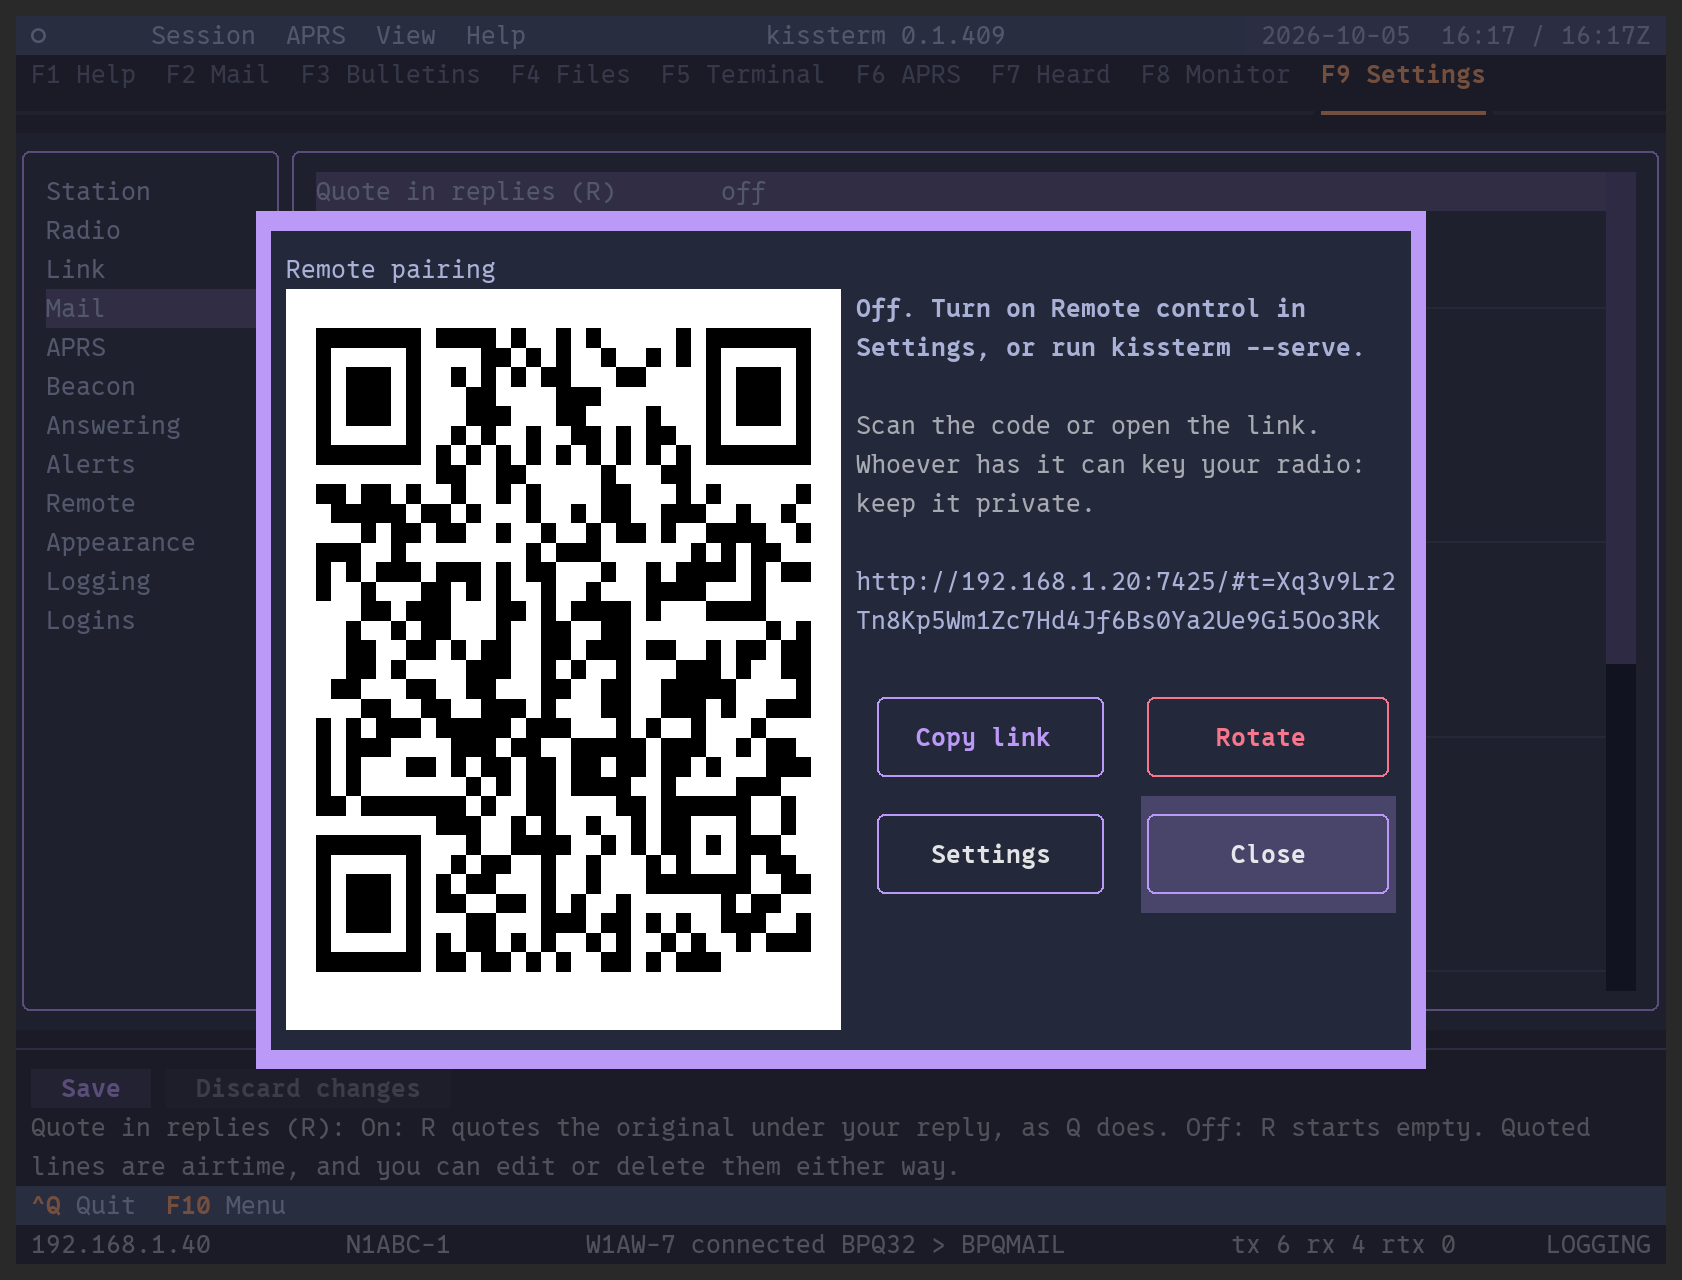
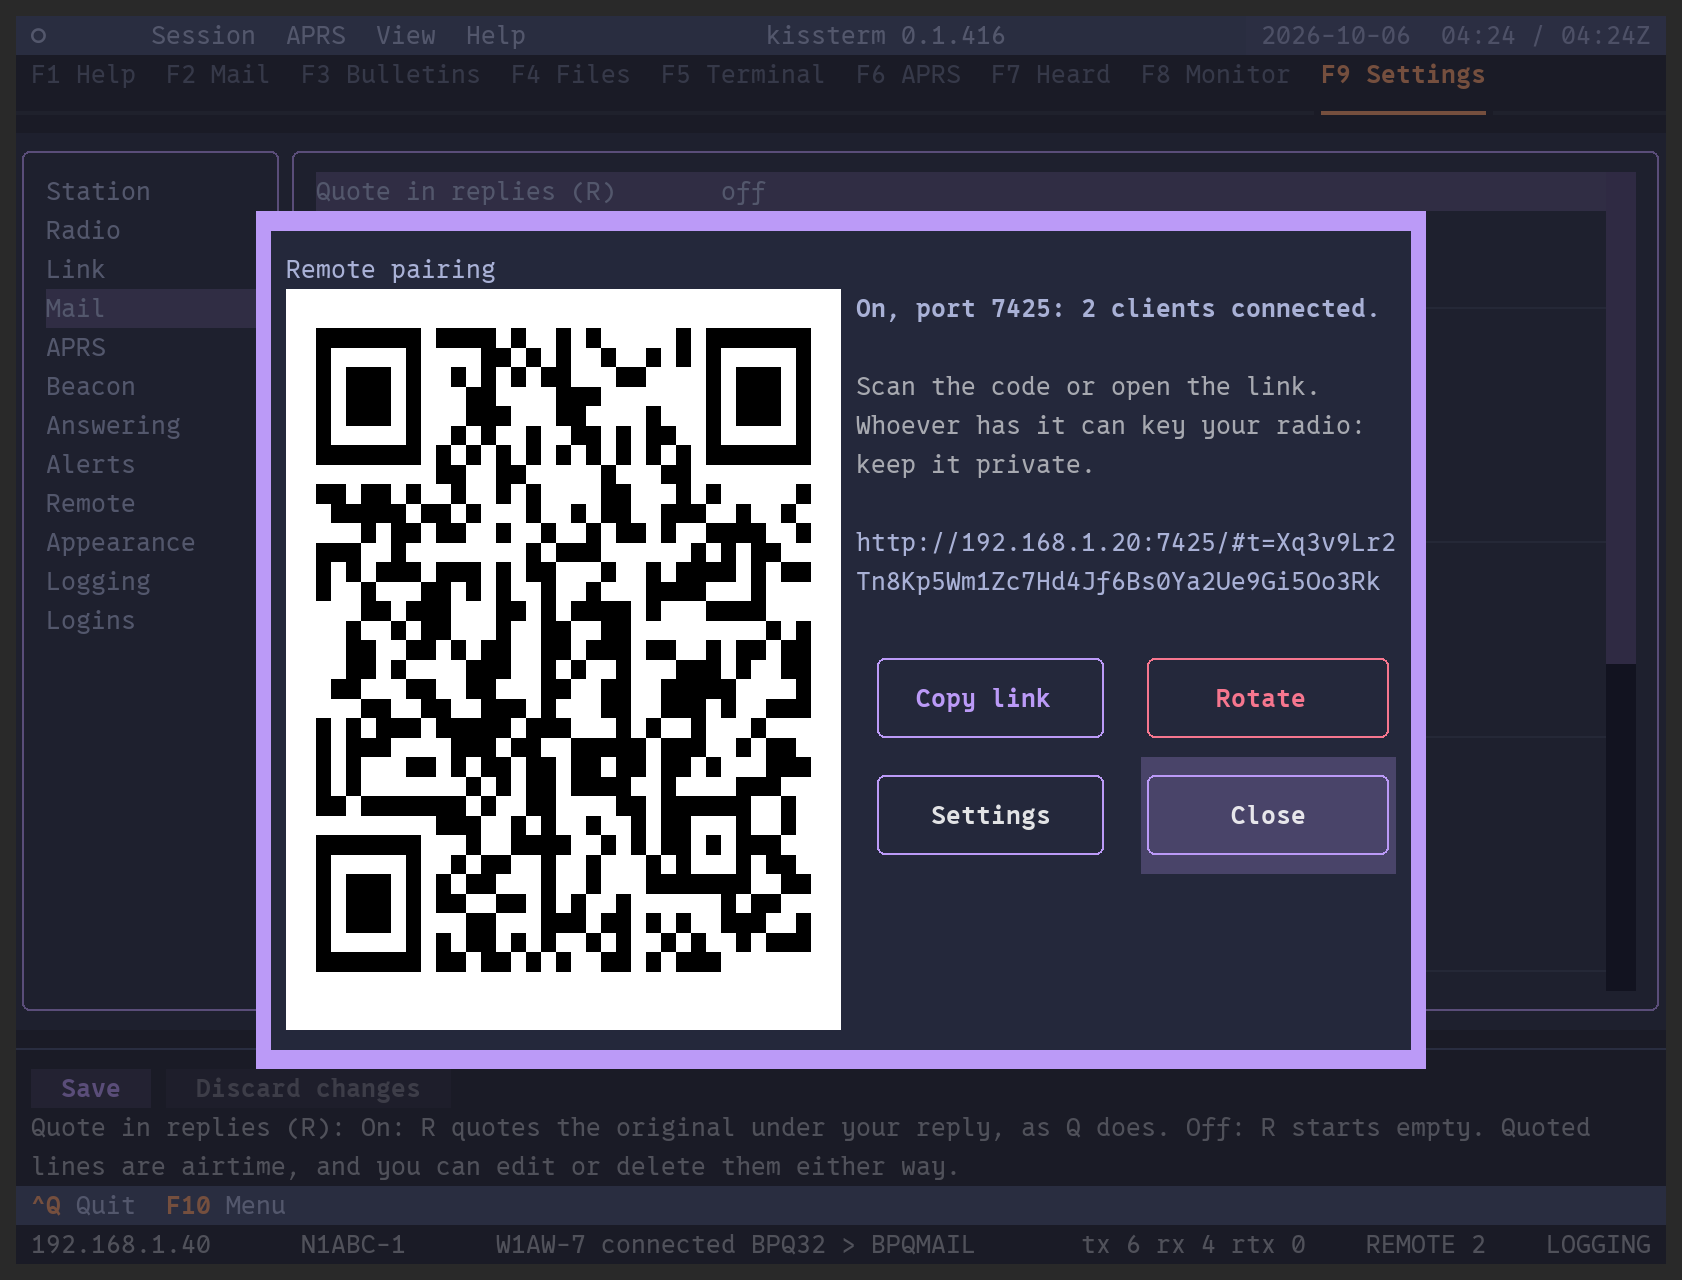
docs: remote control on the README's front page (station, laptop, phone); a late-joining client no longer re-raises replayed alerts
Claude-Session: https://claude.ai/code/session_01FCWtXQ183PSVjjcBWEy9f8

diff --git a/scripts/generate_phone_screenshots.py b/scripts/generate_phone_screenshots.py
@@ -6,7 +6,8 @@ data. No radio, no phone.
 remote control is a Flutter page, so it needs a real browser. This runs a
 loopback station with the remote server and the web client (the `web`
 extra), opens it in headless Chrome at a phone's size, taps through it,
-and writes one PNG of four phone screens to `assets/`.
+and writes the phone screens, two to an image, and the same station in a
+desktop-sized window to `assets/`.
 
 **The browser** is a browserless v2 server when `BROWSERLESS_WS` is set
 (`ws://HOST:3000?token=...`, the URL Playwright's `connect_over_cdp`
@@ -51,6 +52,7 @@ isolate()
 import asyncio  # noqa: E402
 import io  # noqa: E402
 import os  # noqa: E402
+import re  # noqa: E402
 import secrets  # noqa: E402
 import socket  # noqa: E402
 from urllib.parse import urlsplit  # noqa: E402
@@ -72,6 +74,8 @@ ASSETS = REPO / "assets"
 #: Flutter then takes text only from touch input, and these taps are
 #: mouse clicks; the layout follows the width alone.
 PHONE = {"width": 390, "height": 844, "deviceScaleFactor": 2, "mobile": False}
+#: A laptop's browser window: wide enough for the side rail.
+DESKTOP = {"width": 1000, "height": 560, "deviceScaleFactor": 2, "mobile": False}
 #: Space between the phones in the composite, and its background.
 GAP, BACKDROP = 48, (226, 226, 234)
 
@@ -180,8 +184,11 @@ class Phone:
     async def accessible(self) -> None:
         """Turn on Flutter's semantics, which puts named DOM elements over
         the canvas: what a screen reader would announce."""
-        await self.page.evaluate("document.querySelector('flt-semantics-placeholder')?.click()")
-        await self.page.get_by_role("tab", name="Stations").wait_for()
+        page = self.page
+        await page.wait_for_selector("flt-semantics-placeholder", state="attached", timeout=60000)
+        await page.evaluate("document.querySelector('flt-semantics-placeholder').click()")
+        # The transmit switch: in the top bar on every layout.
+        await page.get_by_role("button", name=re.compile("^Transmit is")).first.wait_for()
 
     def button(self, name: str):
         """The last button so named: a sheet's is drawn over the page's.
@@ -245,15 +252,34 @@ class Phone:
 
 
 async def shot(name: str, frames: list[Image.Image]) -> None:
-    """The phones side by side, half size, as `assets/<name>.png`."""
+    """The screens side by side on a backdrop, at the browser's full
+    resolution (a README column shows it at about one phone's width
+    each, sharp on a high-density display), as `assets/<name>.png`."""
     w, h = frames[0].size
     sheet = Image.new("RGB", (len(frames) * w + (len(frames) + 1) * GAP, h + 2 * GAP), BACKDROP)
     for i, frame in enumerate(frames):
         sheet.paste(frame, (GAP + i * (w + GAP), GAP))
-    sheet = sheet.resize((sheet.width // 2, sheet.height // 2), Image.LANCZOS)
     path = ASSETS / f"{name}.png"
     sheet.save(path, optimize=True)
     print(f"wrote {path.relative_to(REPO)}")
+
+
+async def open_page(browser, url: str, metrics: dict):
+    """A page at `metrics` (CSS size and density), loaded from `url`."""
+    # Both: the context's viewport, or Playwright's default replaces the
+    # CDP override below.
+    context = await browser.new_context(
+        viewport={"width": metrics["width"], "height": metrics["height"]},
+        device_scale_factor=metrics["deviceScaleFactor"])
+    page = await context.new_page()
+    cdp = await context.new_cdp_session(page)
+    await cdp.send("Emulation.setDeviceMetricsOverride", metrics)
+    # A remote browser's tab is not the focused window, and Flutter's text
+    # field takes keys only once its hidden input has focus.
+    await cdp.send("Emulation.setFocusEmulationEnabled", {"enabled": True})
+    await page.bring_to_front()
+    await page.goto(url)
+    return page
 
 
 async def drive(phone: Phone, core, tb) -> None:
@@ -314,24 +340,18 @@ async def main() -> int:
                 browser = await p.chromium.connect_over_cdp(endpoint)
             else:
                 browser = await p.chromium.launch()
-            # Both: the context's viewport, or Playwright's default replaces
-            # the CDP override below.
-            context = await browser.new_context(
-                viewport={"width": PHONE["width"], "height": PHONE["height"]},
-                device_scale_factor=PHONE["deviceScaleFactor"])
-            page = await context.new_page()
-            cdp = await context.new_cdp_session(page)
-            await cdp.send("Emulation.setDeviceMetricsOverride", PHONE)
-            # A remote browser's tab is not the focused window, and Flutter's
-            # text field takes keys only once its hidden input has focus.
-            await cdp.send("Emulation.setFocusEmulationEnabled", {"enabled": True})
-            await page.bring_to_front()
-            await page.goto(url)
-            await page.wait_for_timeout(8000)  # Flutter's first load
-            phone = Phone(page)
+            phone = Phone(await open_page(browser, url, PHONE))
             await drive(phone, core, tb)
+            # The same station in a desktop browser, joining late: the
+            # session and conversation arrive as the server's replay.
+            desktop = Phone(await open_page(browser, url, DESKTOP))
+            await desktop.accessible()
+            await desktop.shown("W1AW-7  connected")
+            await desktop.frame()
             await browser.close()
-        await shot("screenshot-phone", phone.frames)
+        await shot("screenshot-phone-connect", phone.frames[:2])
+        await shot("screenshot-phone", phone.frames[2:])
+        await shot("screenshot-desktop", desktop.frames)
     finally:
         await server.stop()
         core.aprs.shutdown()

diff --git a/kissterm/client/state.py b/kissterm/client/state.py
@@ -13,6 +13,11 @@ changed: "station", "gate", "transport", "activity", "session",
 is plain with colour spans, never escape codes. Nothing here parses
 anything from the air.
 
+**A replayed event is history** (PROTOCOL.md section 5): it draws the
+session text and threads a late joiner missed, but an alert or a setup
+request in it already happened, so it is not raised again. Without that,
+a browser opened an hour later popped up the hour's APRS alerts.
+
 **Only what the station said is shown**: a line the operator types is
 not added to its session until the station's `LineSent` comes back, so a
 line that was refused never looks sent.
@@ -27,6 +32,8 @@ from dataclasses import dataclass, field
 #: Text chunks kept per session (the station keeps the rest in its
 #: transcript).
 SESSION_CHUNKS = 4000
+#: Events that ask for attention now, which a replay does not repeat.
+ONE_SHOT = frozenset({"Alert", "SetupRequested"})
 MONITOR_LINES = 500
 NOTICES = 50
 
@@ -123,7 +130,10 @@ class StationState:
         if kind == "welcome":
             self._welcome(message)
         elif kind == "event":
-            self._event(message.get("name", ""), message.get("data") or {})
+            name = message.get("name", "")
+            if message.get("replay") and name in ONE_SHOT:
+                return
+            self._event(name, message.get("data") or {})
         elif kind == "notice":
             self.notices.append(message)
             self._tell("notice", message)

diff --git a/scripts/generate_screenshot.py b/scripts/generate_screenshot.py
@@ -387,16 +387,23 @@ async def main() -> int:
         await shot("screenshot-settings")
         # 9. Remote pairing, with an invented token and LAN address: the
         # real ones would change the image every run (and are the key to a
-        # transmitter).
+        # transmitter). Shown running, with a phone and a laptop connected
+        # (the README's front page): a stand-in server, never a real one.
+        from types import SimpleNamespace
+
         from kissterm.serve import pairing
         from kissterm.ui.dialogs import RemotePairingScreen
 
         pairing.lan_address = lambda: "192.168.1.20"
         app.remote.token = lambda: "Xq3v9Lr2Tn8Kp5Wm1Zc7Hd4Jf6Bs0Ya2Ue9Gi5Oo3Rk"
+        app.remote.server = SimpleNamespace(port=7425, clients=["phone", "laptop"])
+        app._refresh_status()
         app.push_screen(RemotePairingScreen(app.remote))
         await _pause(pilot, 0.3)
         await shot("screenshot-remote-pairing")
         app.pop_screen()
+        app.remote.server = None
+        app._refresh_status()
 
     station.close()
     node.close()

diff --git a/tests/unit/test_client.py b/tests/unit/test_client.py
@@ -113,6 +113,20 @@ async def test_a_question_is_answered_through_the_model():
     await server.stop()
 
 
+def test_a_replayed_alert_is_history_not_a_new_alert():
+    state = StationState()
+    heard: list = []
+    state.subscribe(lambda kind, data: heard.append(kind))
+    alert = {"type": "event", "seq": 5, "name": "Alert",
+             "data": {"title": "APRS", "body": "hi", "urgent": False, "topic": "aprs"}}
+    state.apply({**alert, "replay": True})
+    state.apply({"type": "event", "seq": 6, "name": "SetupRequested",
+                 "data": {"place": "mail"}, "replay": True})
+    assert "alert" not in heard and "setup" not in heard
+    state.apply(alert)
+    assert heard.count("alert") == 1, "a live alert still alerts"
+
+
 def test_timer_recovery_is_still_connected():
     state = StationState()
     state.apply({"type": "event", "seq": 1, "name": "SessionStateChanged",

diff --git a/kissterm/__init__.py b/kissterm/__init__.py
@@ -14,7 +14,7 @@ import __version__` fails with a confusing "unknown location" ImportError --
 this has already happened once.
 """
 
-__version__ = "0.1.416"
+__version__ = "0.1.417"
 
 __all__ = ["__version__"]
 

diff --git a/README.md b/README.md
@@ -17,12 +17,38 @@ the shack.
 - **Talks to your TNC directly**: a sound-card modem such as UZ7HO
   SoundModem or Direwolf, on this computer or another one on your network. USB, serial and Bluetooth TNCs are built
   in and on the roadmap to be proven with real hardware.
-- **More ways to use it are planned.** Today kissterm is a text interface.
-  A desktop app (Windows, macOS, Linux) and a web version for a tablet or a
-  shelter laptop are on the roadmap, built on the same core
-  ([ROADMAP](docs/ROADMAP.md), P7a).
+- **Run it from your phone or laptop too** (experimental). The station
+  keeps the radio; any phone, tablet or laptop on your network opens its
+  link in a browser and becomes a remote control. Nothing to install.
 
 ![The Mail tab: every inbox in one list, a message from the local BBS open](assets/screenshot-mail.png)
+
+## Remote control from a phone or laptop (experimental)
+
+Turn on remote control and the station serves its own app: open the link,
+or scan the QR code, in any browser on your network. The station and every
+screen share one station. The rules do not loosen at a distance. A connect
+from a phone still shows the radio reminder first, and the transmit switch
+is in the top corner of every screen, red while transmit is on. The link is
+the key to your transmitter, so keep it private; Rotate replaces it. Details
+are in the [user guide](docs/GUIDE.md#remote-control-experimental).
+
+**At the station:** Session > Remote pairing shows the link and its QR code,
+and `REMOTE` in the status bar says another screen can key the radio.
+
+![Remote pairing in the terminal: the QR code, the link, and two clients connected](assets/screenshot-remote-pairing.png)
+
+**In a browser on a laptop** the places run down the side:
+
+![The remote control in a laptop's browser: a node session, transmit on](assets/screenshot-desktop.png)
+
+**On a phone** they move to the bottom, in reach of a thumb. A session is
+the terminal, and APRS messages are conversations:
+
+![The remote control on a phone: a node session, and an APRS conversation](assets/screenshot-phone.png)
+
+It has been tried in browsers at laptop and phone sizes, not yet from a
+real phone on the air; [ON-AIR-TESTS](docs/ON-AIR-TESTS.md) lists the checks.
 
 ## A quick tour
 

diff --git a/docs/CHANGELOG.md b/docs/CHANGELOG.md
@@ -5,6 +5,25 @@ long, with a **Files:** line. Entries from before 2026-09-22 (the P0
 stabilization rewrite) are in `docs/CHANGELOG-archive.md`; read it only when
 you need the history of a specific change.
 
+## [2026-10-06] — Remote control on the README's front page
+
+### Improvements
+
+- **The README shows remote control**: the station's pairing dialog
+  (now drawn running, `REMOTE 2`), the app in a laptop's browser (the side
+  rail), and on a phone, each image large enough to read. The phone
+  screenshots are now pairs, not a strip of four, and the GUIDE adds the
+  laptop view.
+- **A browser that joins late no longer pops up old alerts.** The replay
+  that brings it the session text also carried past `Alert` and
+  `SetupRequested` events, which it raised as new; they are now history.
+
+**Files:** `README.md`, `docs/GUIDE.md`, `docs/PROTOCOL.md`,
+`kissterm/client/state.py`, `tests/unit/test_client.py`,
+`scripts/generate_phone_screenshots.py`, `scripts/generate_screenshot.py`,
+`assets/screenshot-desktop.png`, `assets/screenshot-phone.png`,
+`assets/screenshot-phone-connect.png`, `assets/screenshot-remote-pairing.png`
+
 ## [2026-10-06] — The remote control's terminal: a dark panel, real bold, a choice of colours
 
 ### Improvements

diff --git a/docs/GUIDE.md b/docs/GUIDE.md
@@ -611,7 +611,14 @@ own client.
     on a desktop (the `desktop` extra). It has not been tried on a
     desktop yet.
 
-![The remote control on a phone: a swipe asks before connecting, the radio reminder, a session with transmit on, and an APRS conversation](../assets/screenshot-phone.png)
+![A swipe asks before connecting, then the station's radio reminder: nothing transmits until Connect](../assets/screenshot-phone-connect.png)
+
+![A node session with transmit on, and an APRS conversation](../assets/screenshot-phone.png)
+
+On a wider screen (a laptop's browser, a tablet) the places run down the
+side:
+
+![The remote control in a laptop's browser](../assets/screenshot-desktop.png)
 
 - **Settings > Remote** sets the port (7425), whether it listens on the
   LAN or on this machine only, and, under advanced, a **Public URL** for

diff --git a/docs/PROTOCOL.md b/docs/PROTOCOL.md
@@ -177,6 +177,8 @@ gets a `welcome` (the state now, and the current `seq`), then every
 buffered event after the hello's `since`, marked `"replay": true` --
 history to draw, not state to apply over the snapshot -- then live
 events, with no gap between the two. `since: 0` replays the whole buffer.
+A replayed `Alert` or `SetupRequested` already happened: a client shows
+it as history, if at all, and never raises it again.
 
 ## 6. Events on the wire
 
